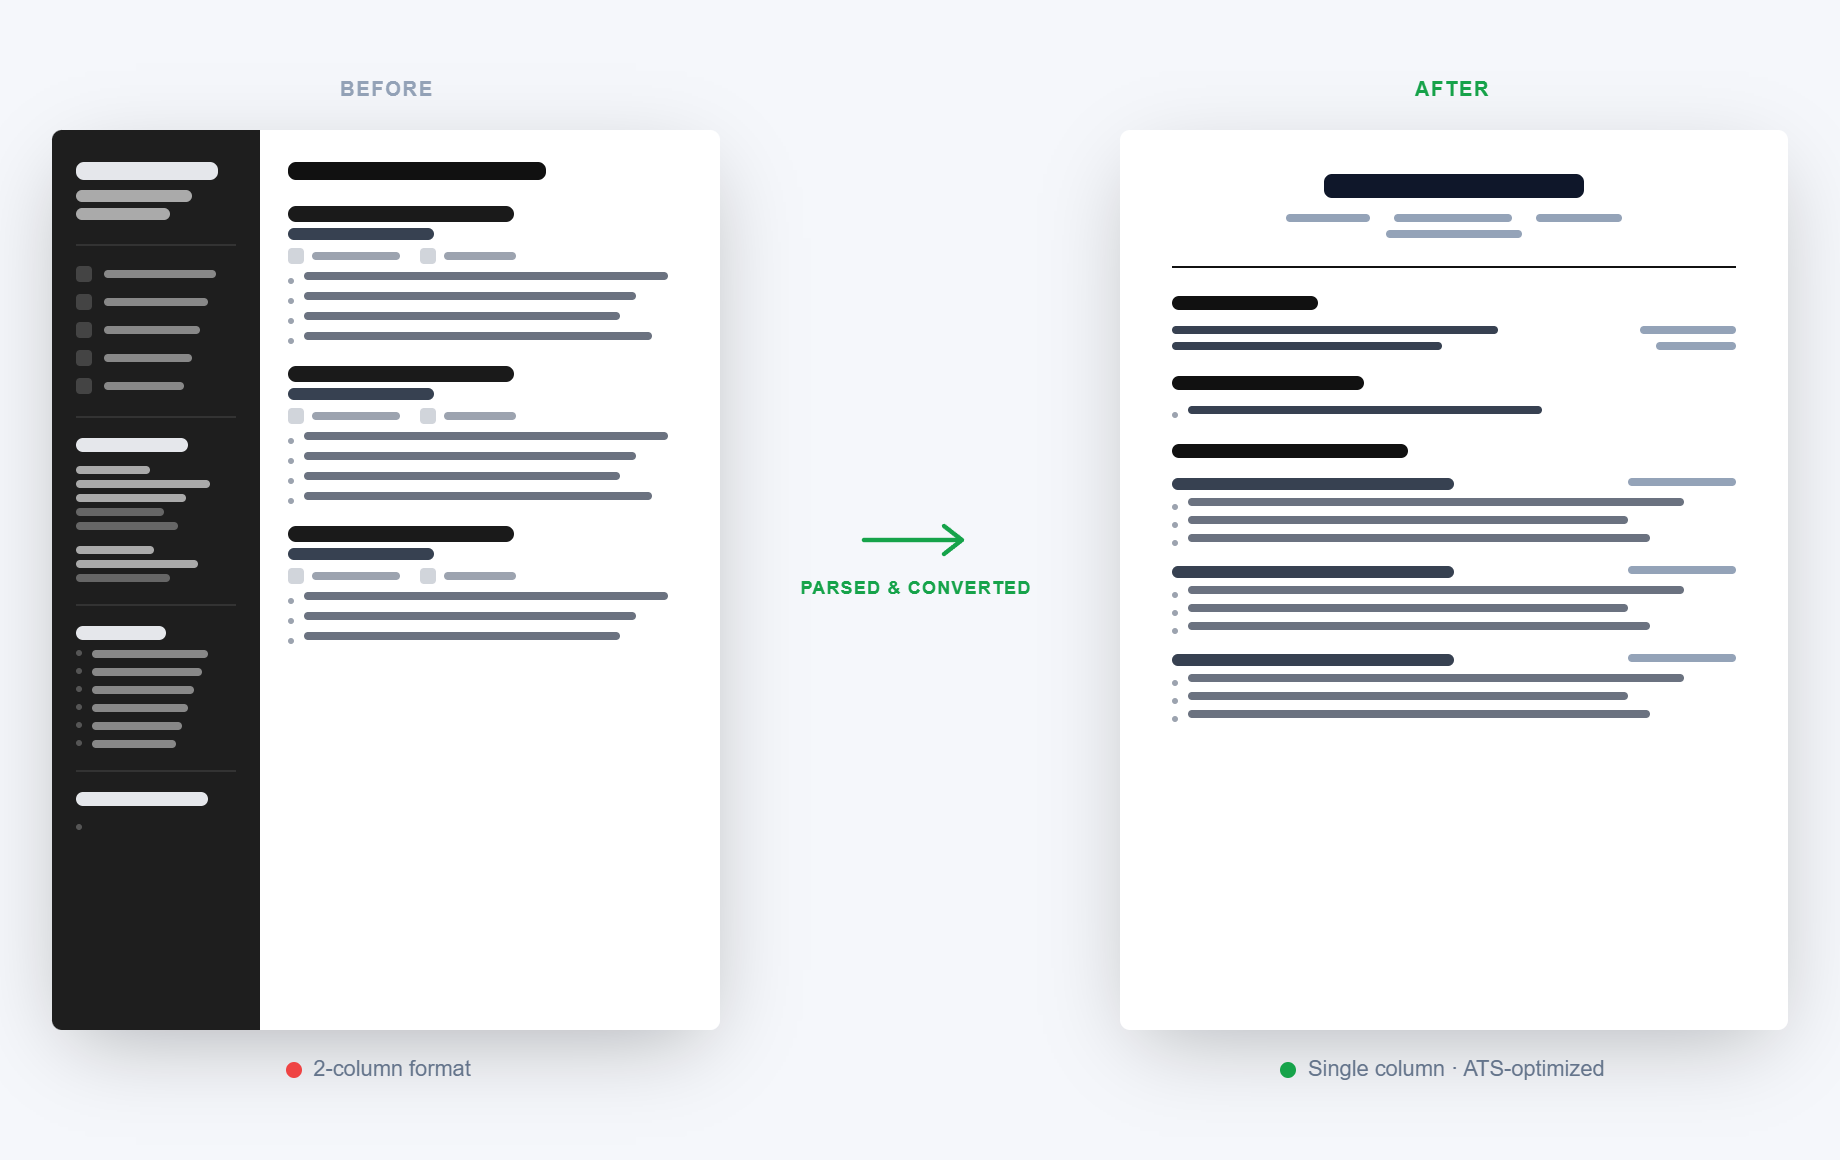
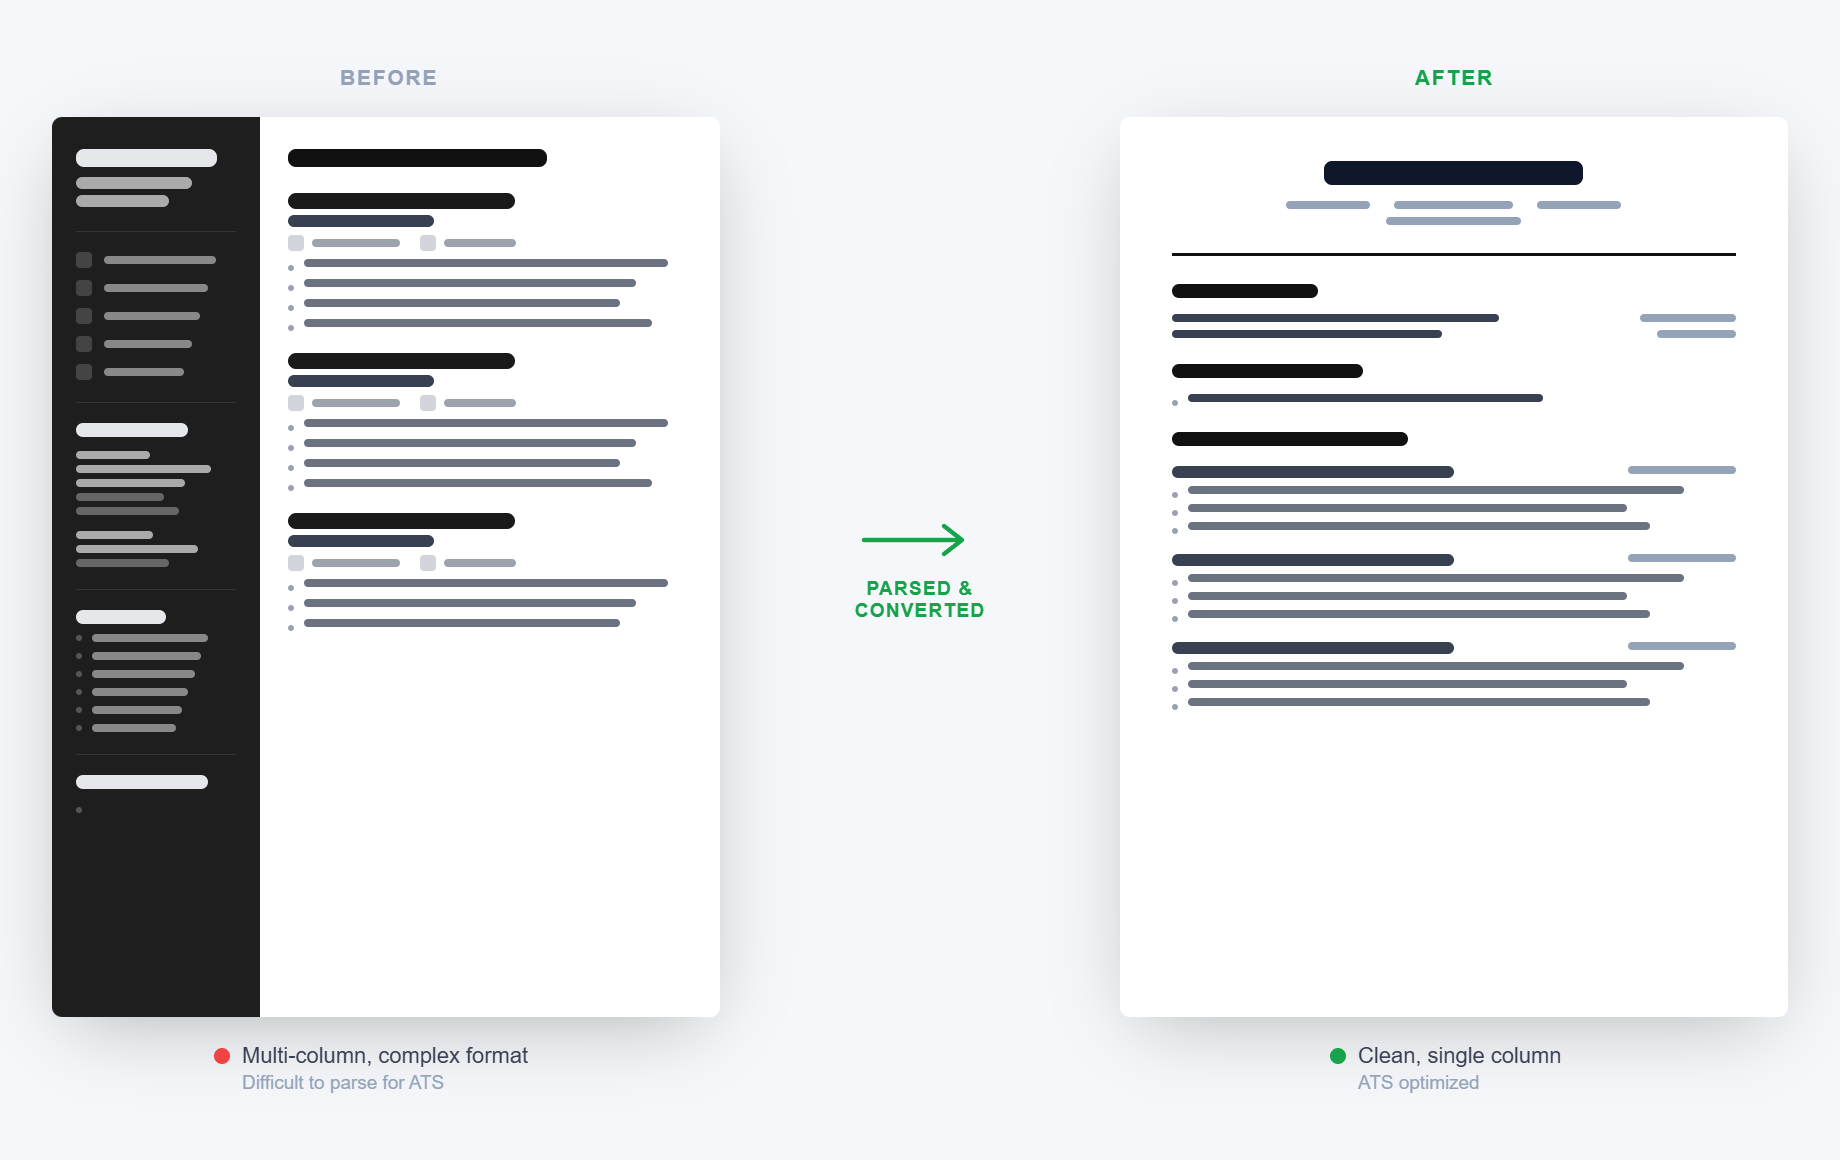
update step export designs with updated UI, and also removed the explicit mention of 2 column from step1 export since the site is now offering 2 column exports

diff --git a/client/app/_components/FAQ.tsx b/client/app/_components/FAQ.tsx
@@ -19,7 +19,7 @@ const faqs = [
 	{
 		question: "What makes CVSquared unique from other AI resume writing tools?",
 		answer: <ul className="list-disc pl-5">
-			<li>CVSquared's AI processing is trained to provide tailored feedback that uses natural-sounding language, emphasizes business impact and is accurate to your own experience.</li>
+			<li>CVSquared's AI processing is trained to provide tailored feedback that uses natural-sounding language, emphasizes business impact and is accurate to your own experience, all of which are important to make your resume stand out and land interviews.</li>
 			<li>Our editable PDF preview allows users to accept suggestions and re-word them to their preference if needed before they export it.</li>
 		</ul>
 	},
